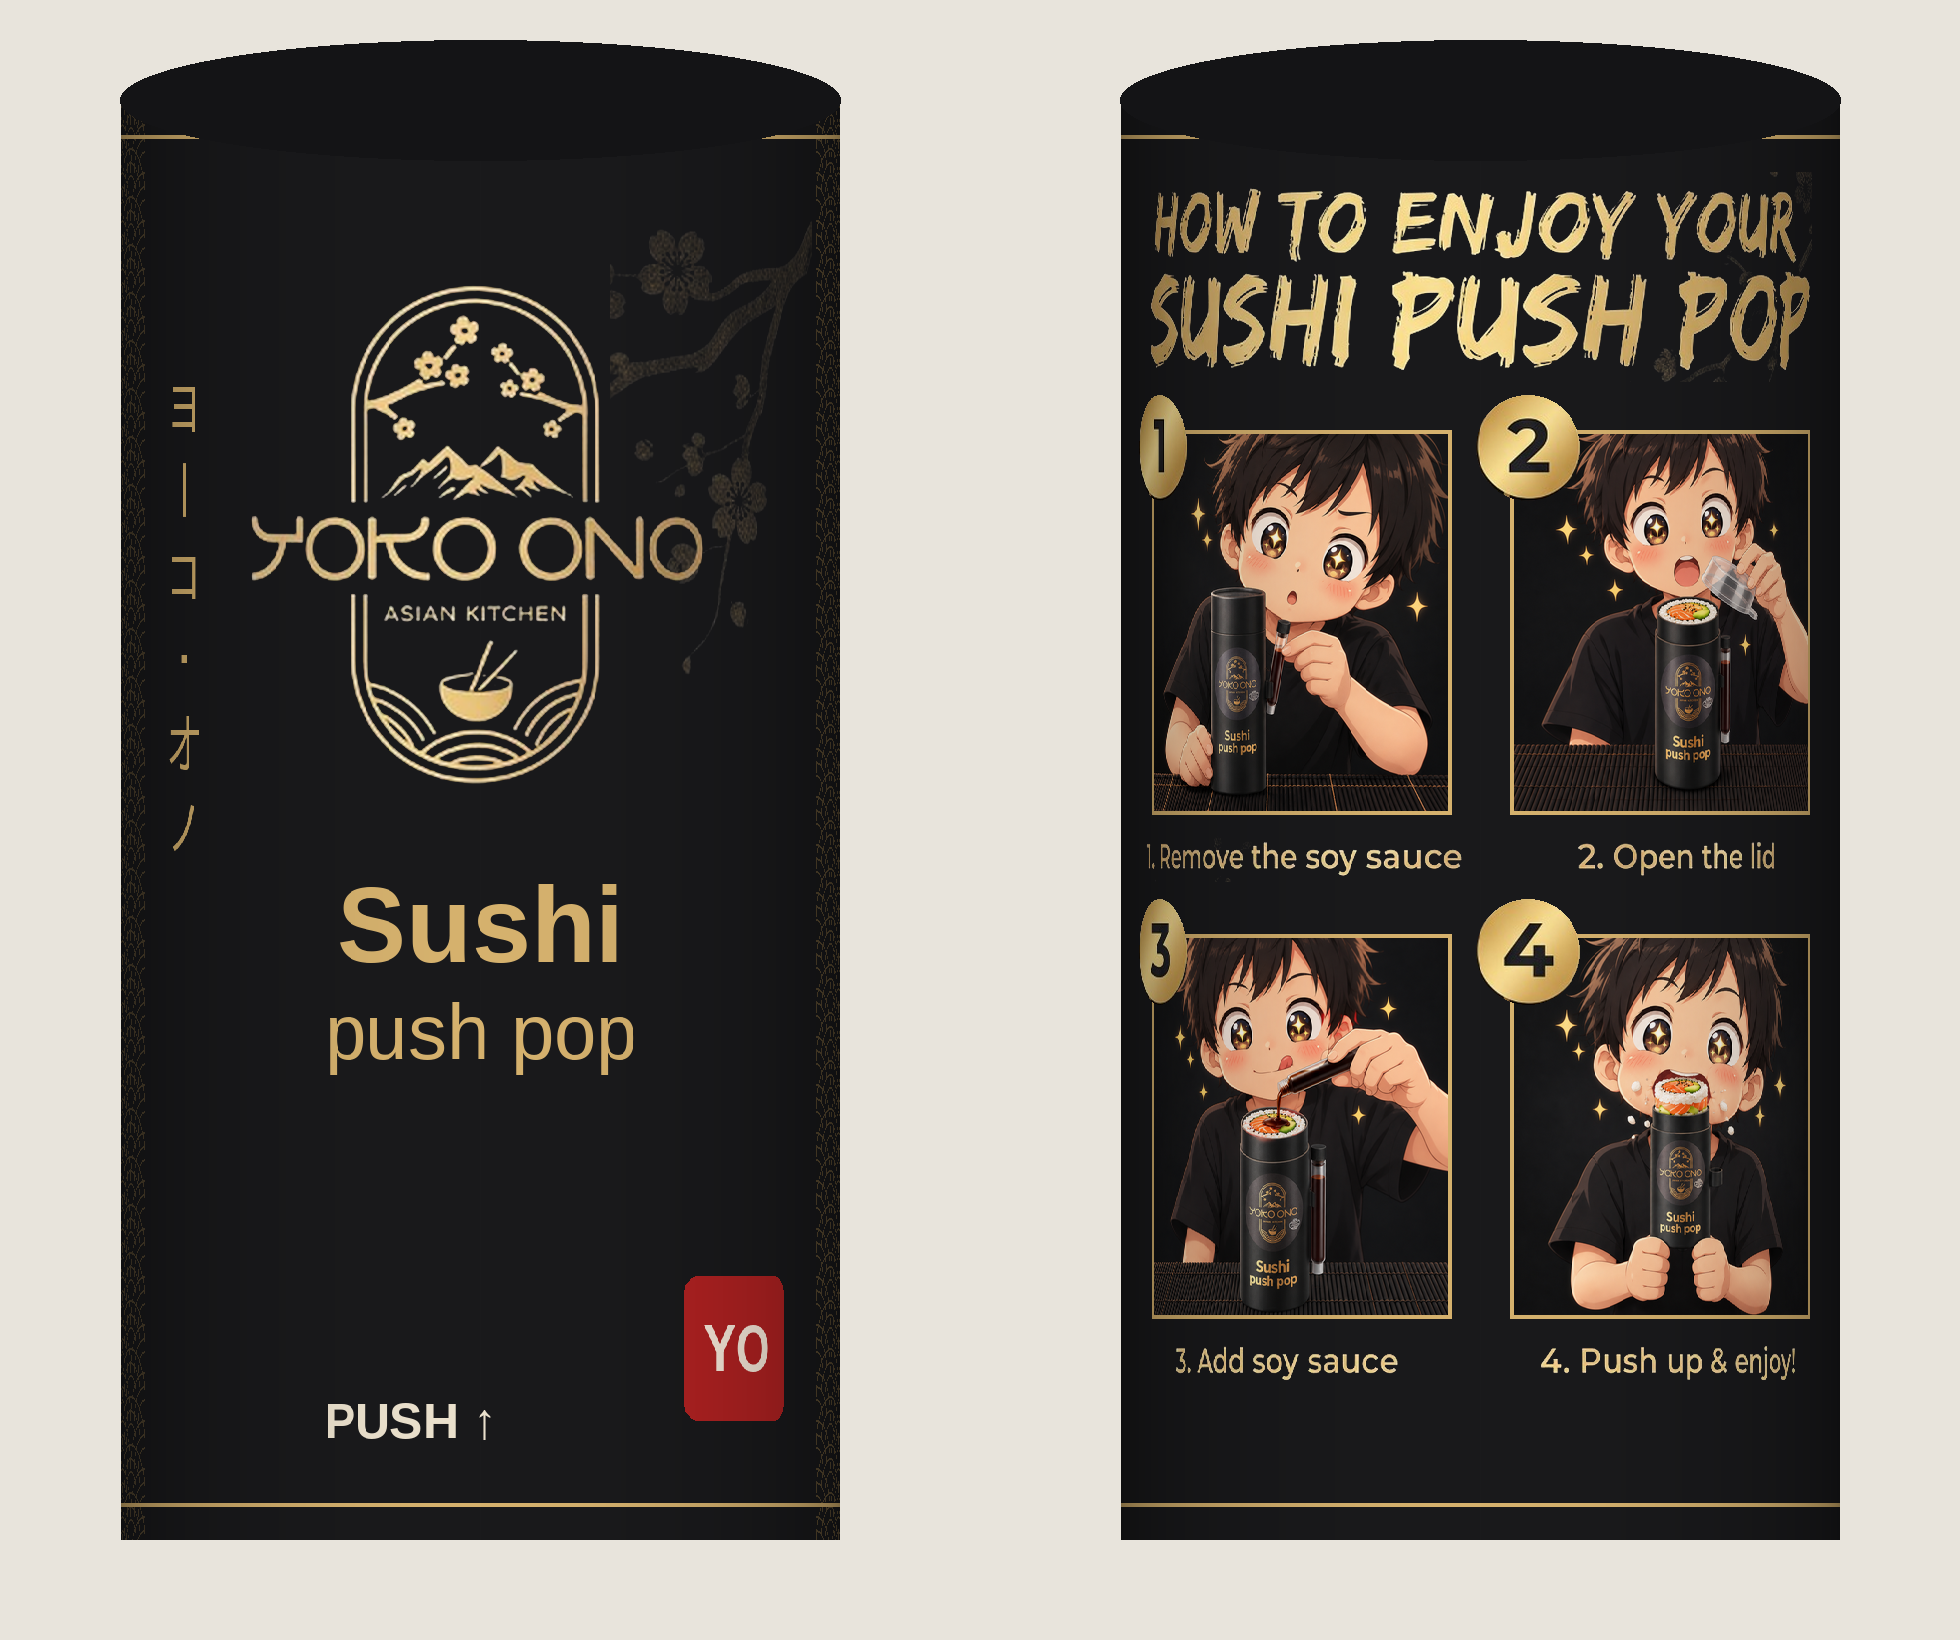
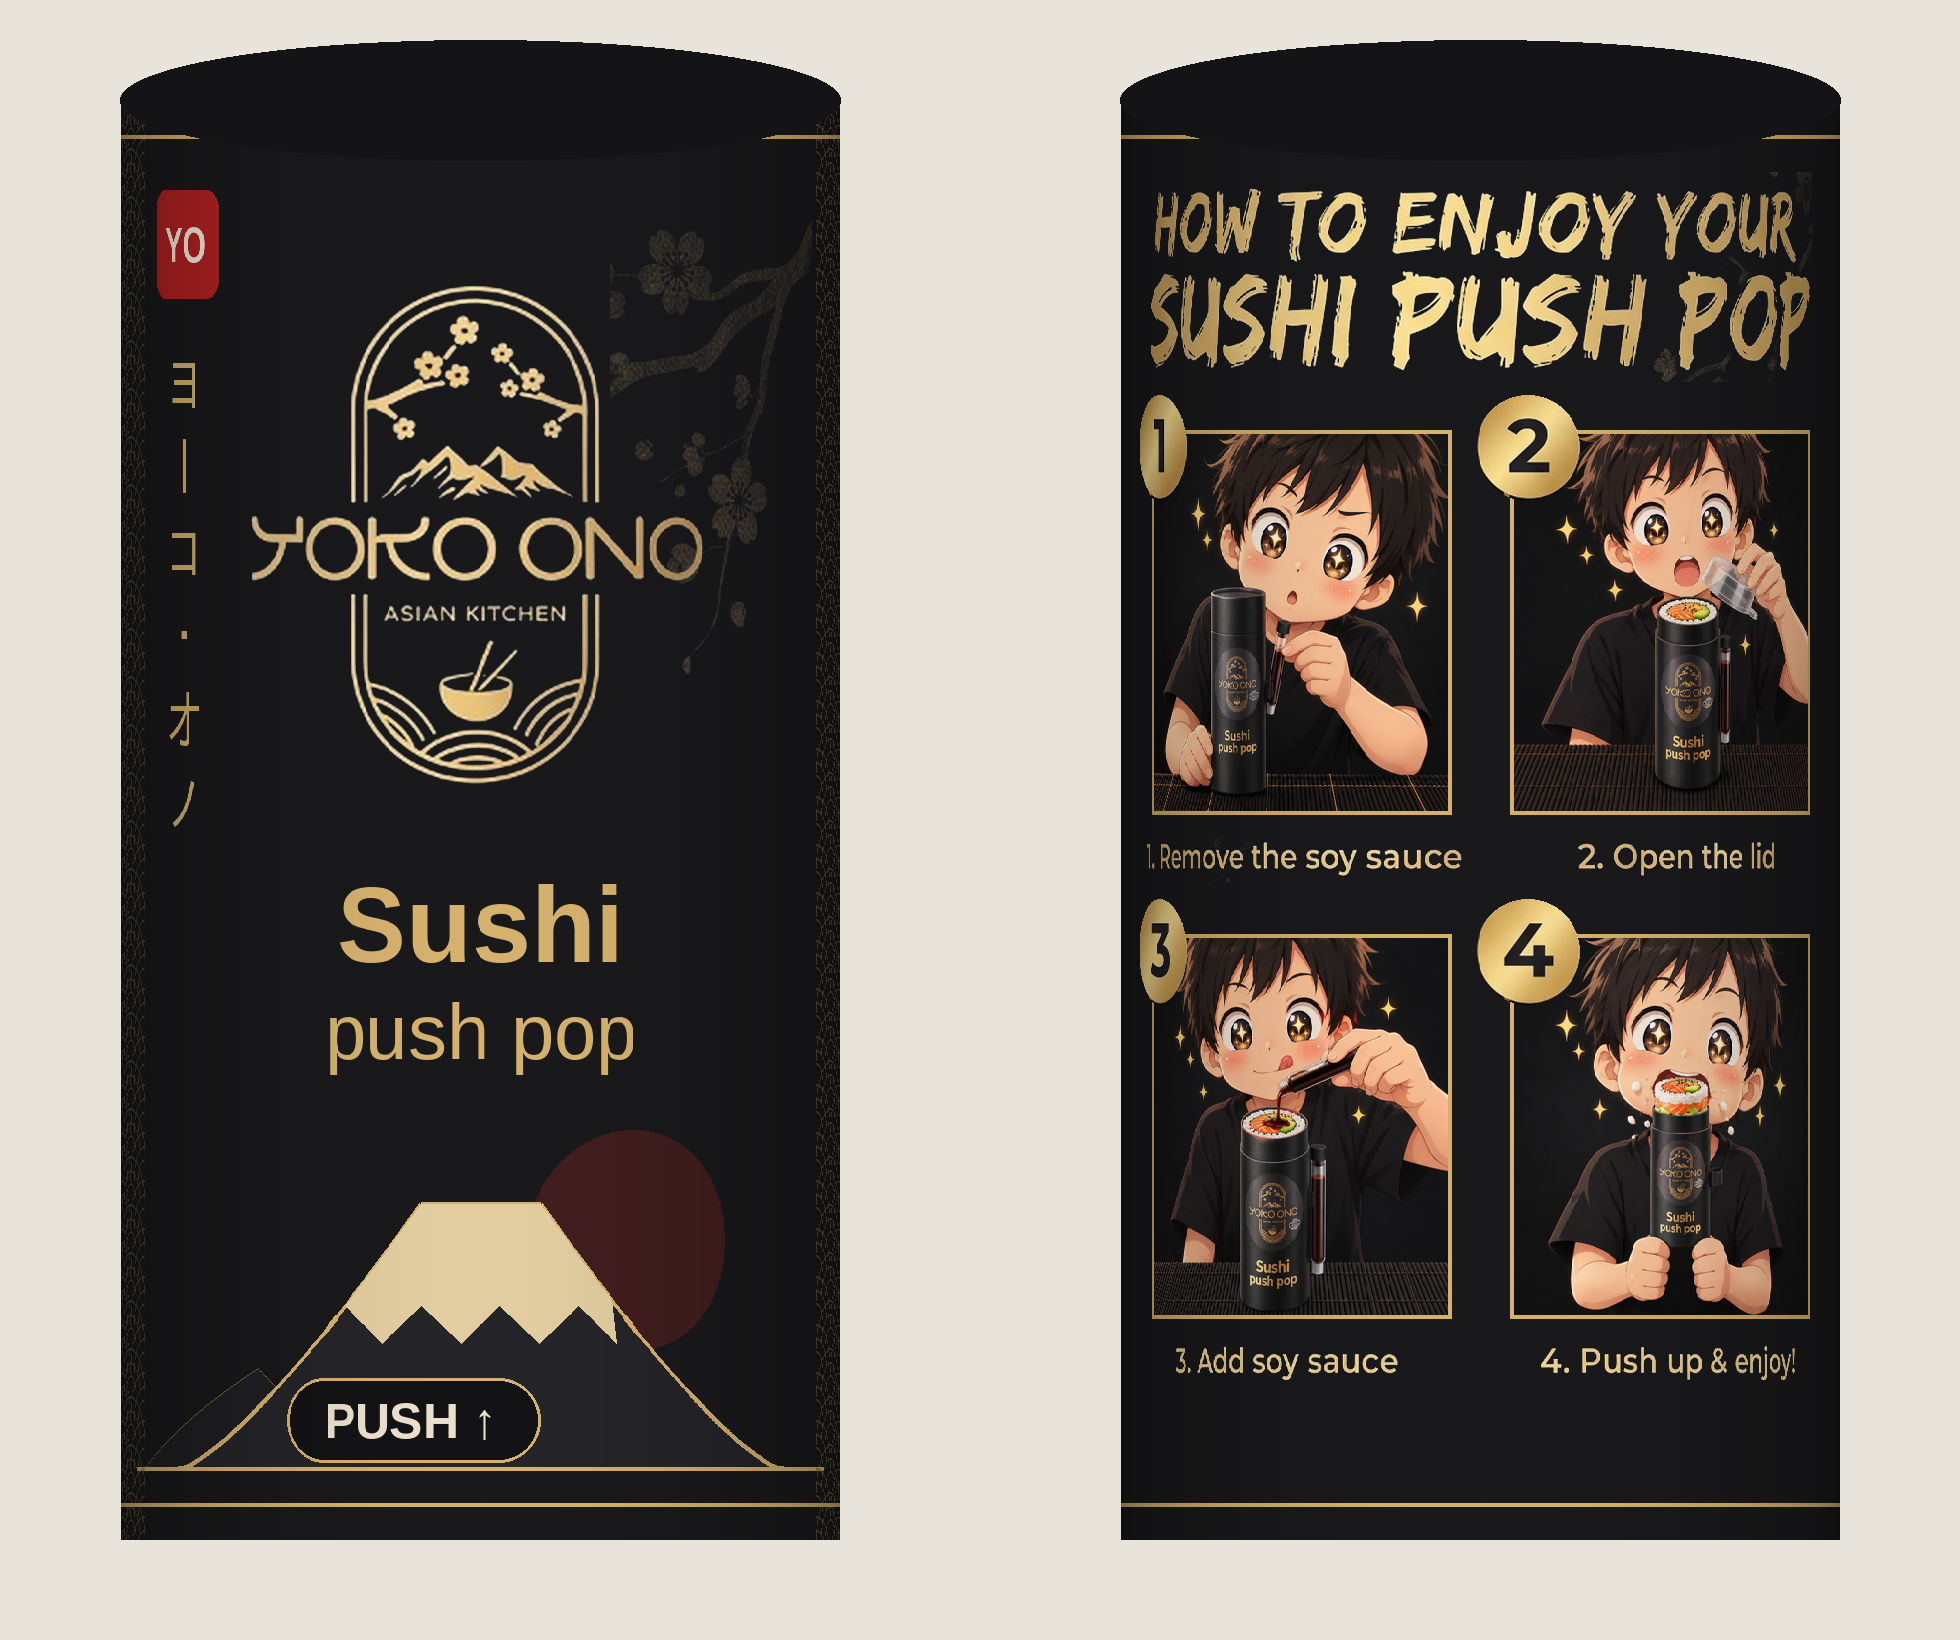
Wrap label: add Mount Fuji + rising sun backdrop on front, move hanko top-left, keep boss base image in repo
Claude-Session: https://claude.ai/code/session_01V1tqCne1qoexL69DJjRyCc

Changed region(s): [[0.1556, 0.6841, 0.4046, 0.9018], [0.0934, 0.8396, 0.2801, 0.9018], [0.0622, 0.0933, 0.1245, 0.1866]]

diff --git a/sticker/wrap_v1.py b/sticker/wrap_v1.py
@@ -5,7 +5,7 @@ from PIL import Image, ImageDraw, ImageFont, ImageFilter
 PX=12                                   # px per mm (~305 dpi)
 W,H=200*PX,120*PX
 mm=lambda v:int(v*PX)
-SRC=Image.open('/root/.claude/uploads/8da19ccc-f5ab-50f2-bd41-7c530964c845/5e5b1b3a-image.jpg').convert('RGB')
+SRC=Image.open('boss_base.jpg').convert('RGB')
 BG=(26,26,28); GOLD=(214,178,110); GOLD_D=(120,98,60); CREAM=(235,225,205); RED=(178,34,34)
 F=lambda s,b=True:ImageFont.truetype('/usr/share/fonts/truetype/liberation/LiberationSans-%s.ttf'%('Bold' if b else 'Regular'),s)
 JP=lambda s:ImageFont.truetype('/usr/share/fonts/opentype/ipafont-gothic/ipag.ttf',s)
@@ -33,6 +33,39 @@ def paste_feather(img,pos,feather=10):
     m=Image.new('L',img.size,0); ImageDraw.Draw(m).rectangle((feather,feather,img.size[0]-feather,img.size[1]-feather),fill=255)
     im.paste(img,pos,m.filter(ImageFilter.GaussianBlur(feather/2)))
 
+
+# ---- Mount Fuji backdrop (front, behind the text), drawn as gold line art
+def fuji(cx,base_y,w,h):
+    lay=Image.new('RGBA',(W,H),(0,0,0,0)); ld=ImageDraw.Draw(lay)
+    # rising sun behind the peak
+    sr=int(h*0.42); sx,sy=cx+int(w*0.22),base_y-h+mm(3)
+    ld.ellipse((sx-sr,sy-sr,sx+sr,sy+sr),fill=(150,40,36,80))
+    # far ridge
+    ld.polygon([(cx-w//2-mm(6),base_y),(cx-w//2+mm(10),base_y-int(h*.38)),(cx-w//6,base_y)],fill=(32,32,36,255),outline=GOLD_D+(255,))
+    # main cone with slightly concave flanks
+    L=[]; N=24
+    for i in range(N+1):
+        t=i/N; L.append((cx-w//2+int((w//2-mm(5))*t), base_y-int(h*(t**1.6))))
+    Rr=[(cx+w//2-int((w//2-mm(5))*t), base_y-int(h*(t**1.6))) for t in [i/N for i in range(N,-1,-1)]]
+    cone=L+[(cx-mm(5),base_y-h),(cx+mm(5),base_y-h)]+Rr
+    ld.polygon(cone,fill=(38,38,42,255))
+    ld.line(cone[:N+1]+[(cx-mm(5),base_y-h),(cx+mm(5),base_y-h)]+Rr,fill=GOLD+(255,),width=5)
+    # snow cap with jagged lower edge
+    cap_y=base_y-int(h*0.62)
+    def xat(y,side):
+        t=((base_y-y)/h)**(1/1.6); return cx+side*(w//2-int((w//2-mm(5))*t))
+    jag=[]; xl,xr=xat(cap_y,-1),xat(cap_y,1); n=7
+    for i in range(n+1):
+        x=xl+(xr-xl)*i/n; jag.append((int(x),cap_y+(mm(3.2) if i%2 else 0)))
+    capL=[(int(xat(y,-1)),y) for y in range(cap_y,base_y-h,-6)]
+    capR=[(int(xat(y,1)),y) for y in range(base_y-h,cap_y,6)]
+    cap=[(cx-mm(5),base_y-h),(cx+mm(5),base_y-h)]+capR+jag[::-1]+capL
+    ld.polygon(cap,fill=(226,206,160,255))
+    # gold ground line + seigaiha water at the foot
+    ld.line((cx-w//2-mm(8),base_y,cx+w//2+mm(8),base_y),fill=GOLD+(255,),width=4)
+    im.paste(lay,(0,0),lay)
+fuji((mm(8)+mm(80))//2, H-mm(6), mm(60), mm(22))
+
 # ---- background pattern zones: seams + transition
 seigaiha((0,0,mm(8),H),mm(4),GOLD_D+(140,))
 seigaiha((mm(192),0,W,H),mm(4),GOLD_D+(140,))
@@ -55,12 +88,13 @@ kx=fx0+mm(7)
 for i,ch in enumerate("ヨーコ・オノ"):
     t=Image.new('RGBA',(mm(7),mm(7)),(0,0,0,0)); ImageDraw.Draw(t).text((mm(3.5),mm(3.5)),ch,font=JP(mm(5.5)),fill=GOLD,anchor='mm')
     if ch=='ー': t=t.rotate(90)
-    im.paste(t,(kx-mm(3.5),mm(22)+i*mm(7)),t)
+    im.paste(t,(kx-mm(3.5),mm(20)+i*mm(7)),t)
 # hanko stamp
-hx,hy,hr=fx1-mm(12),H-mm(16),mm(6)
+hx,hy,hr=fx0+mm(7),mm(12),mm(4.5)
 d.rounded_rectangle((hx-hr,hy-hr,hx+hr,hy+hr),mm(1.5),fill=RED)
-d.text((hx,hy),"YO",font=F(mm(5.5)),fill=(250,235,220),anchor='mm')
+d.text((hx,hy),"YO",font=F(mm(4.2)),fill=(250,235,220),anchor='mm')
 # PUSH arrow at bottom of front
+d.rounded_rectangle((fcx-mm(17),H-mm(13.5),fcx+mm(5),H-mm(6.5)),mm(3.5),fill=(20,20,22),outline=GOLD,width=3)
 d.text((fcx-mm(6),H-mm(10)),"PUSH ↑",font=F(mm(4.2)),fill=CREAM,anchor='mm')
 
 # ---- transition band (80..98): soy-sauce clip zone note
